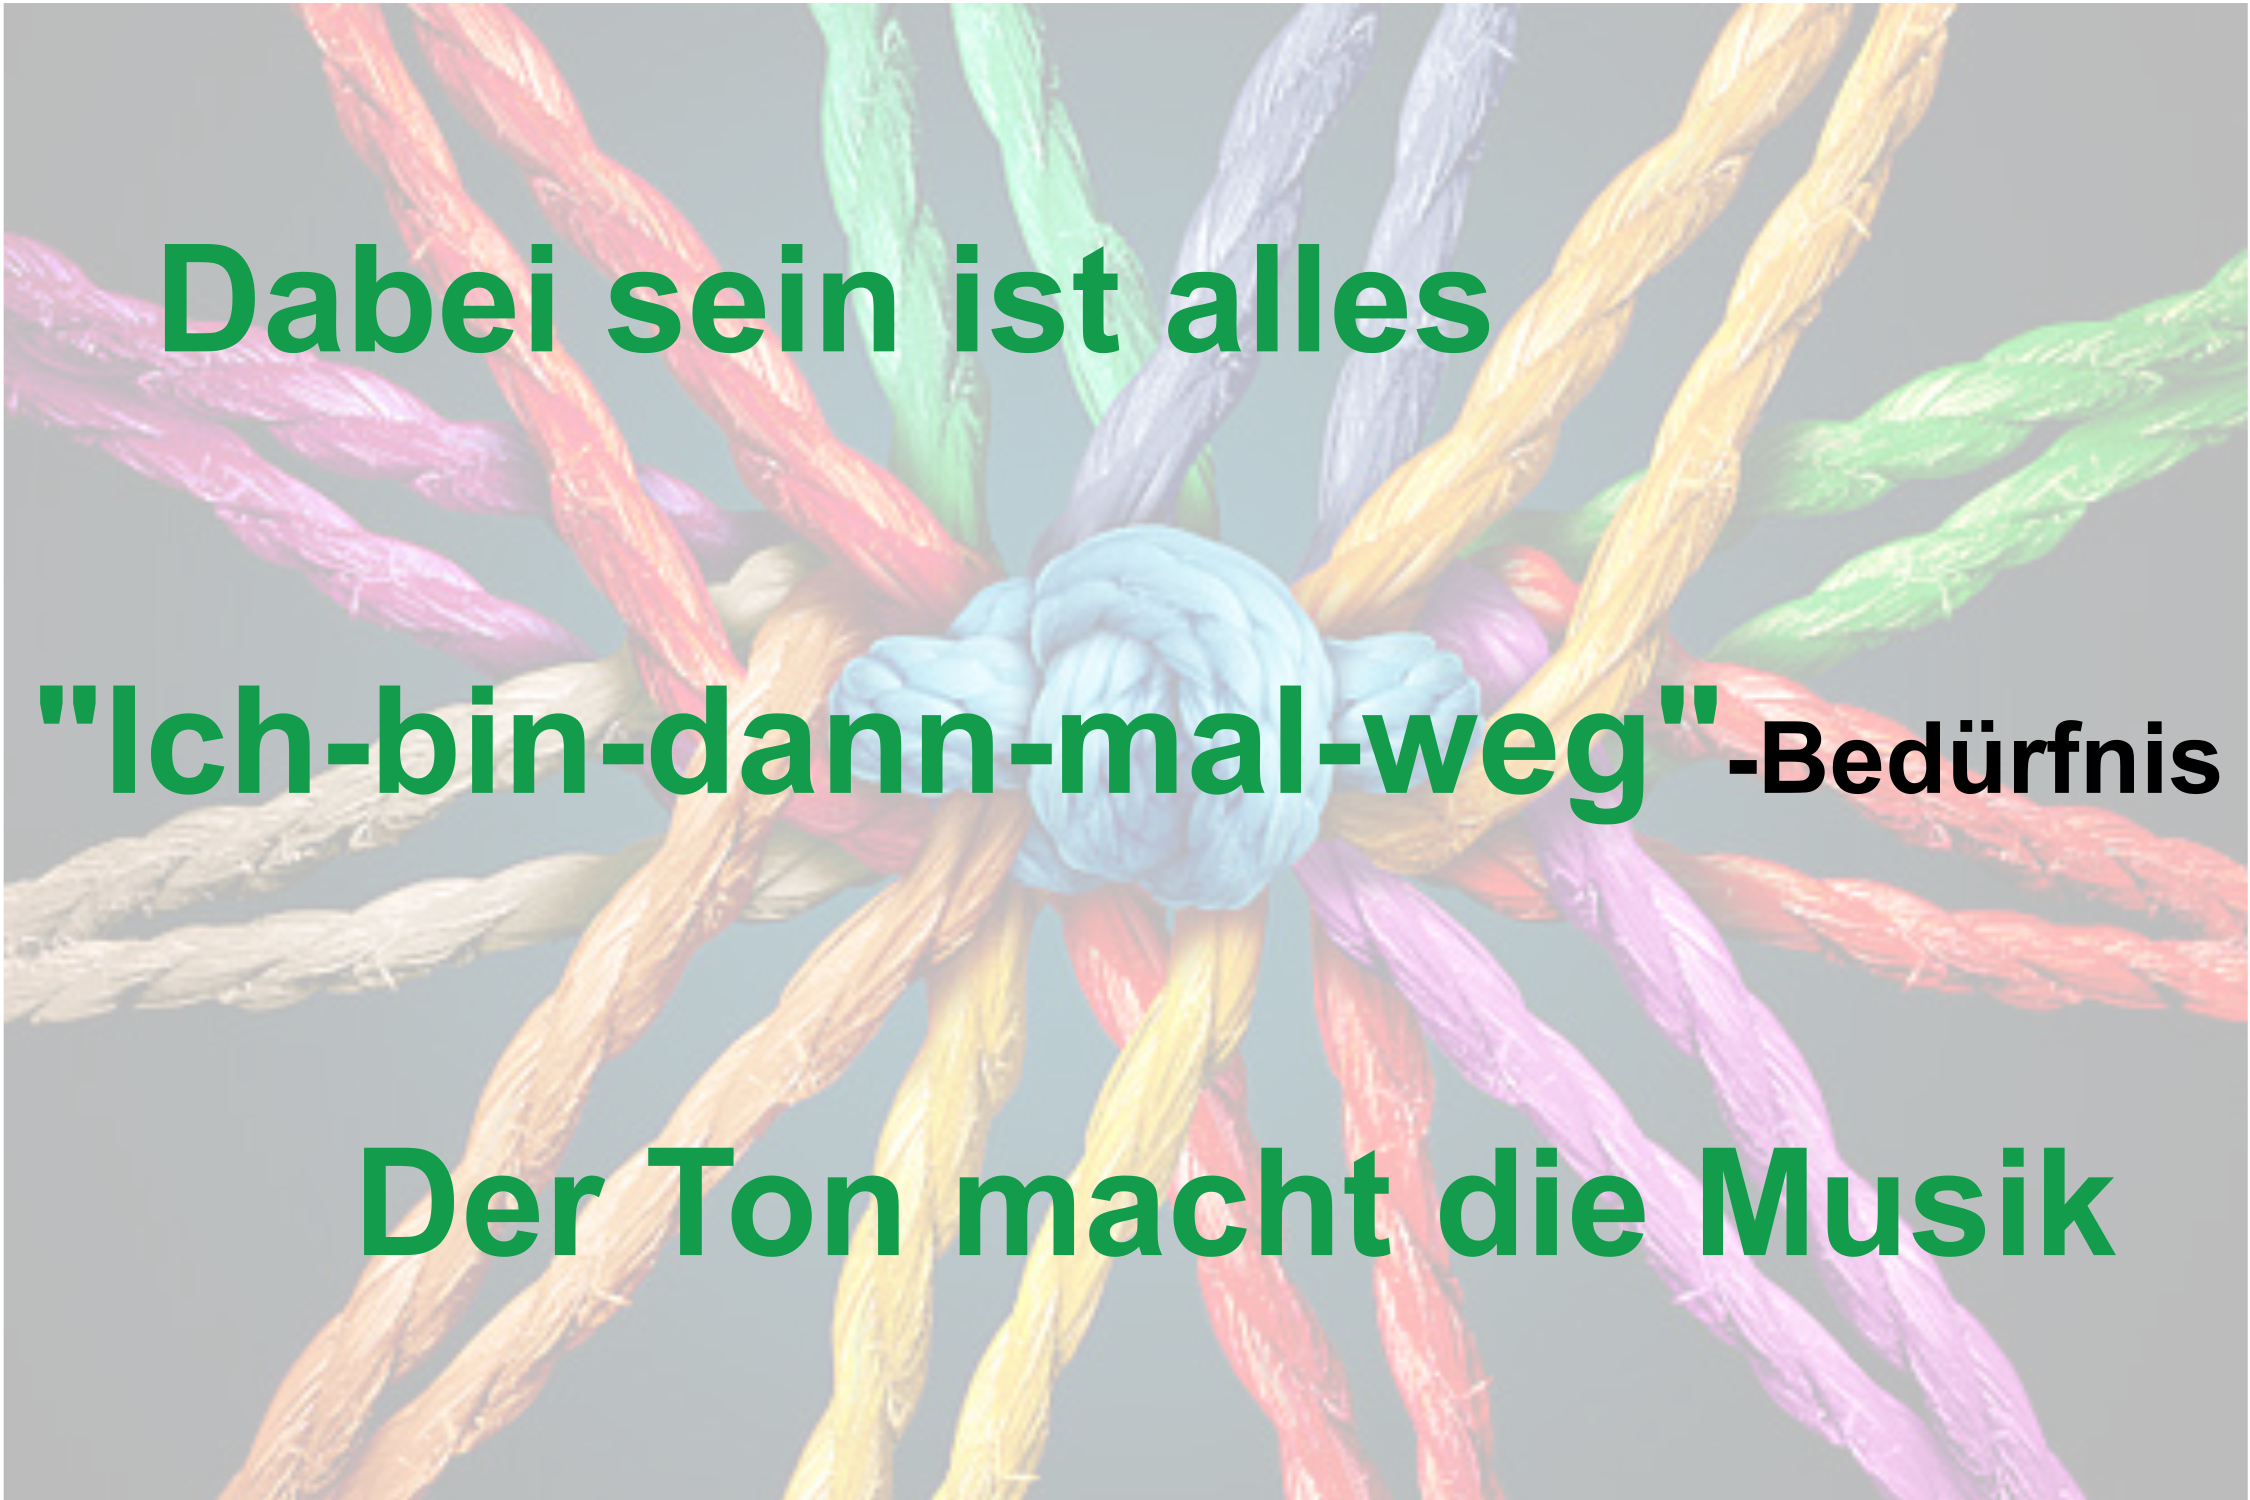
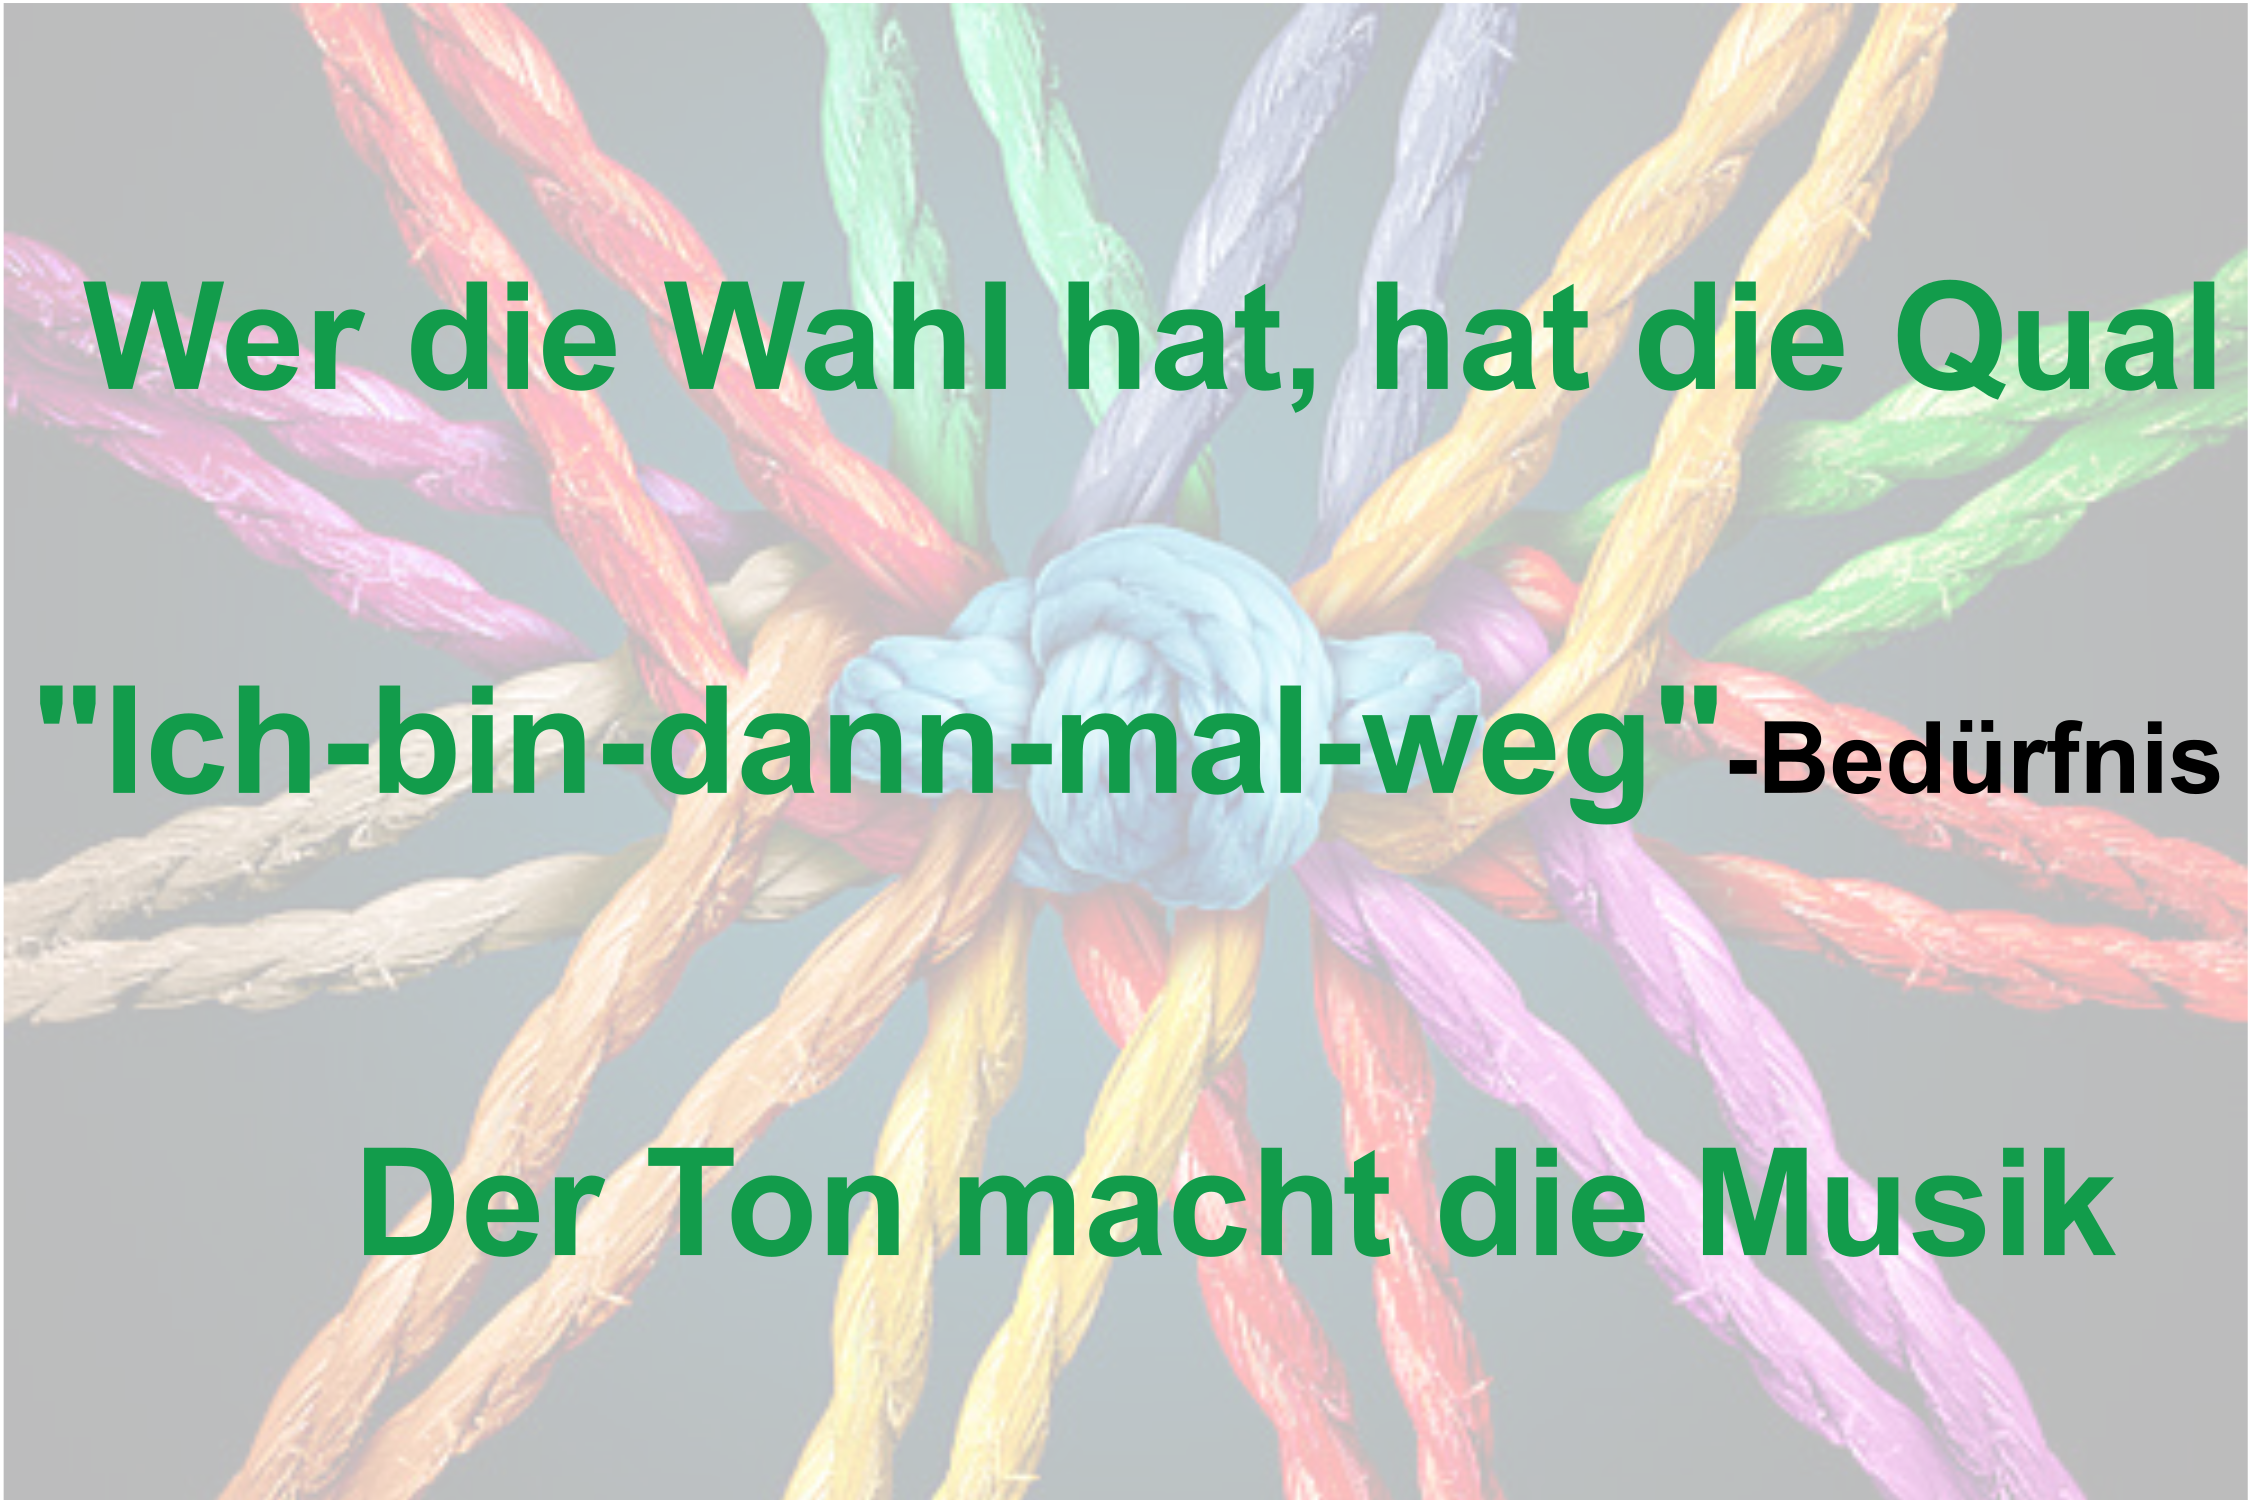
Korrektur Feste Sätze

Changed region(s): [[0.0311, 0.1533, 0.9956, 0.276]]

diff --git a/pages/pos/sentences.vue b/pages/pos/sentences.vue
@@ -56,7 +56,7 @@
 
           <template #explain>   
             <ul>
-            <li><span class="pos_highlight">Dabei sein ist alles</span></li>
+            <li><span class="pos_highlight">Wer die Wahl hat, hat die Qual</span></li>
             <li><span class="pos_highlight">Ende gut, alles gut</span></li>
             <li><span class="pos_highlight">Geiz ist geil</span></li>
                 </ul>
